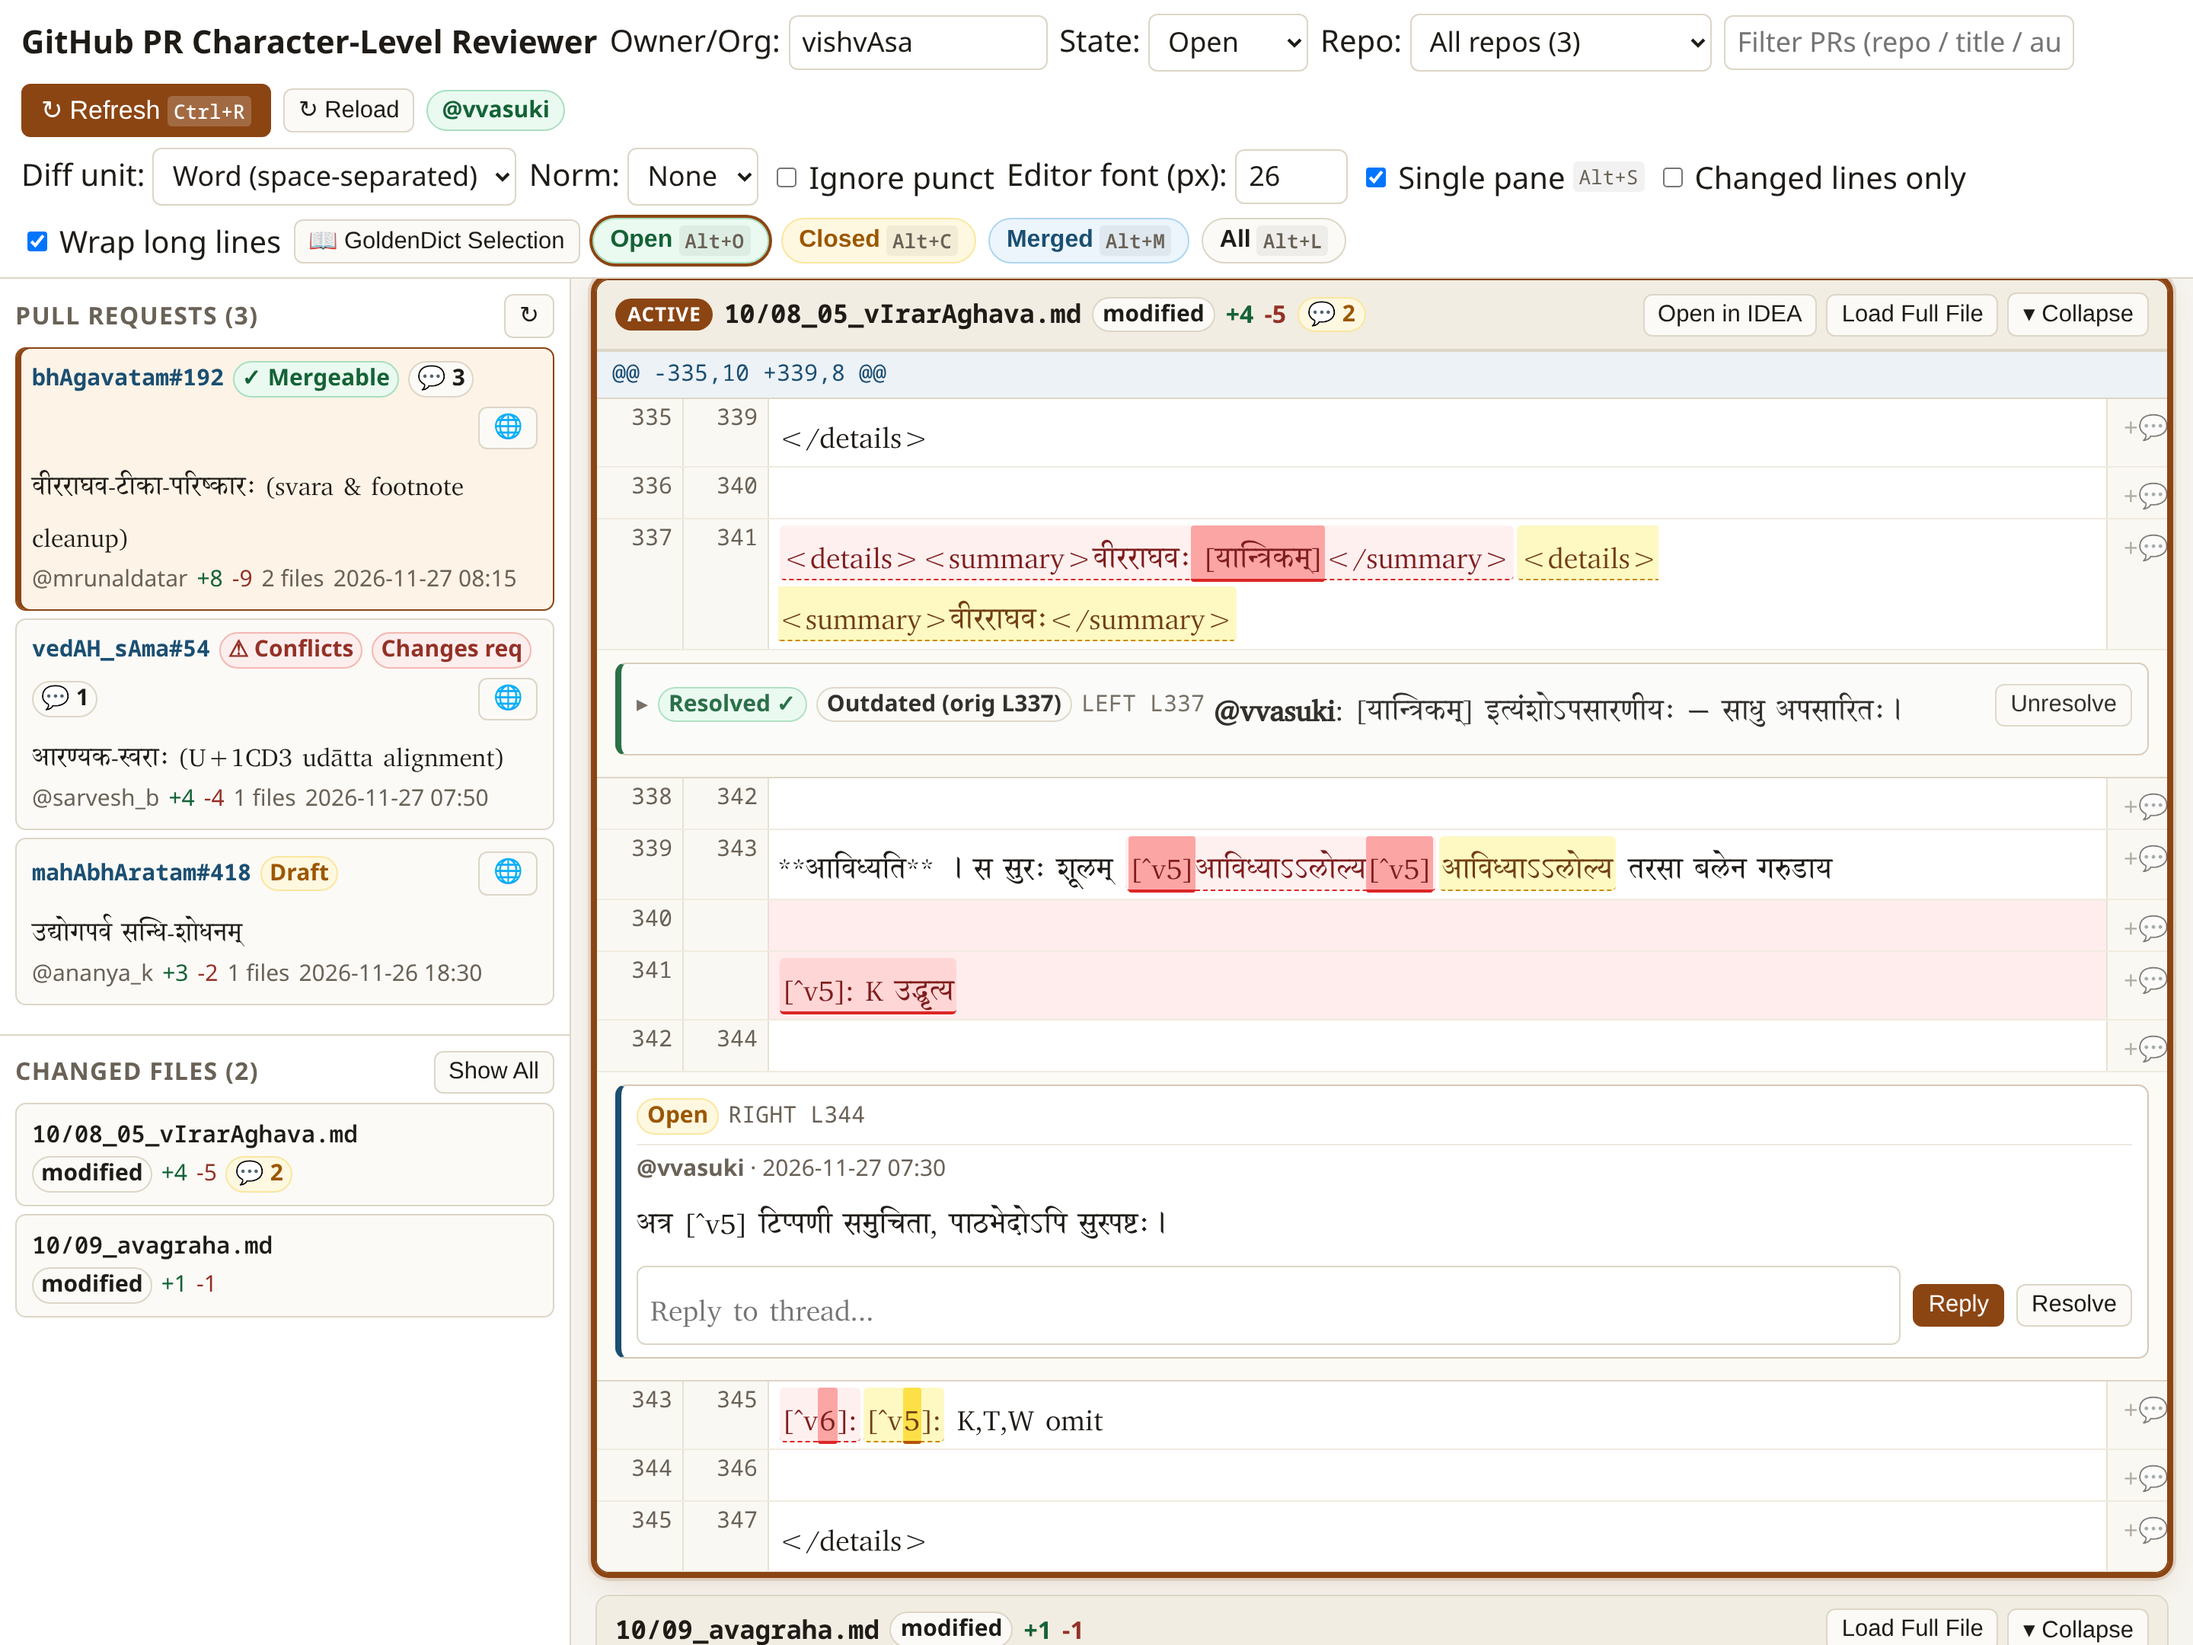
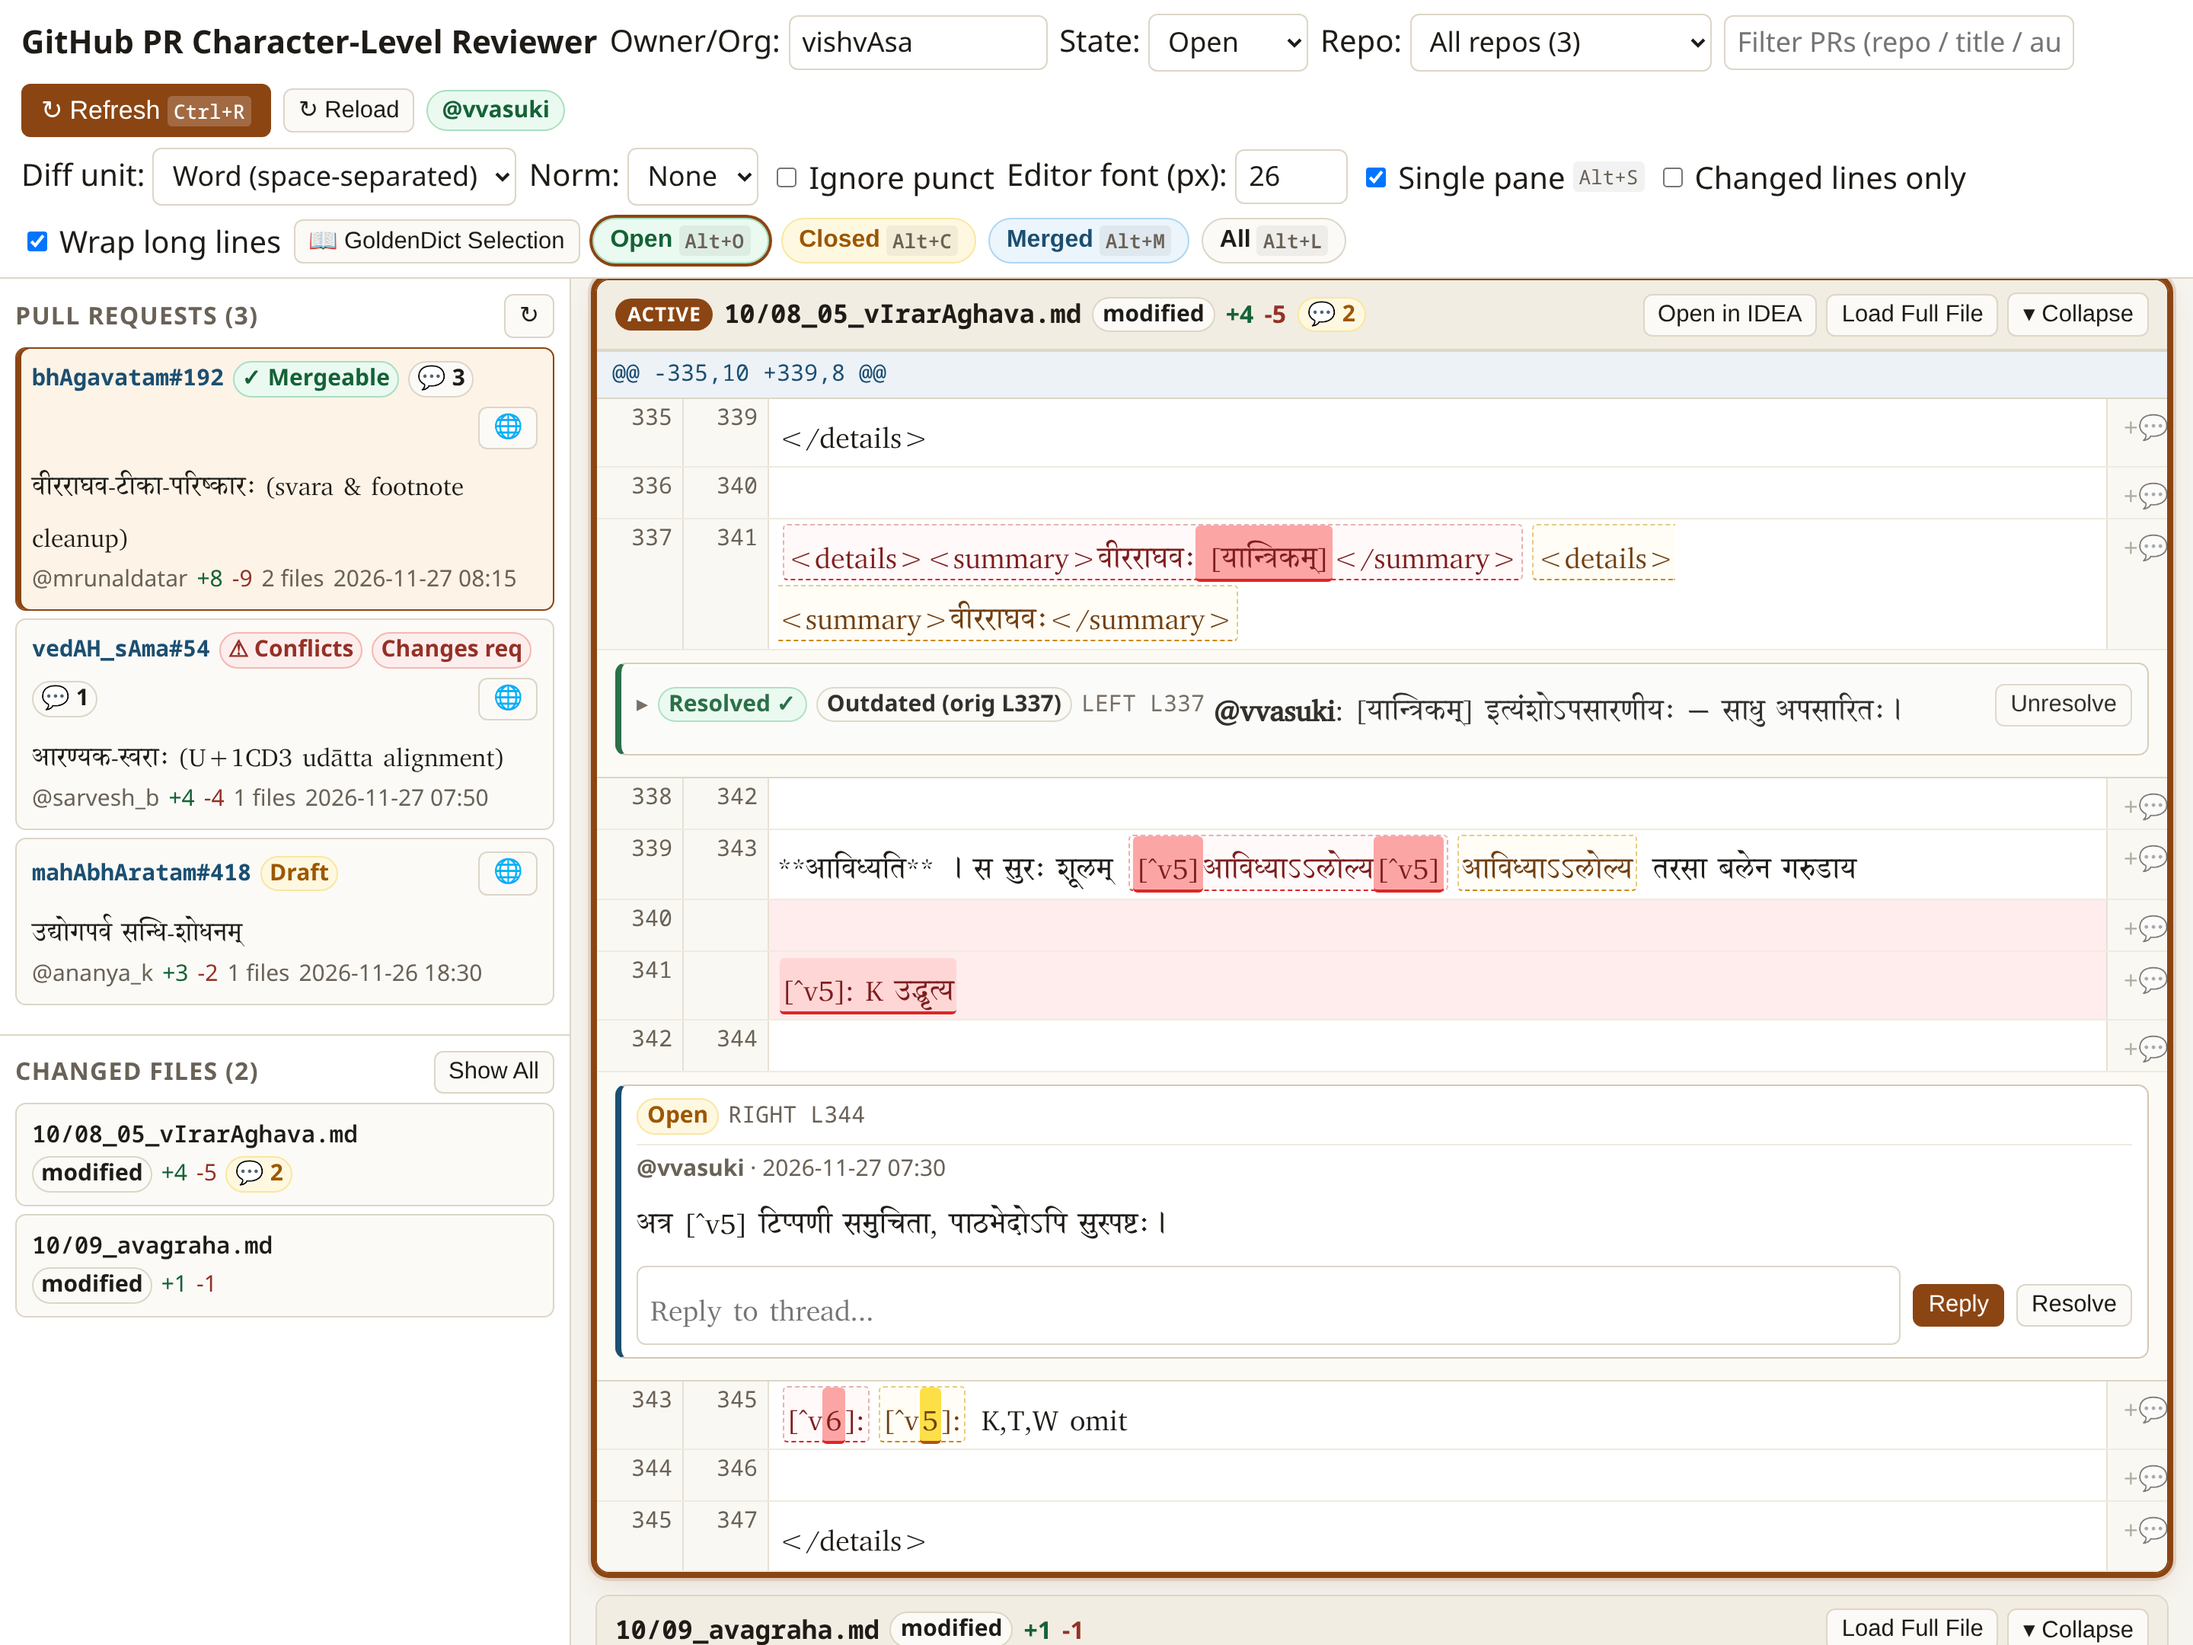
Improve intra-word char highlight contrast, cross-row pairing, and JS fallback

diff --git a/pull_requests/pull_requests_san/templates/pr_review.html b/pull_requests/pull_requests_san/templates/pr_review.html
@@ -18,7 +18,7 @@
     --green-soft: #eafaf1;
     --ins-row: #fefce8;
     --ins-char: #fef3c7;
-    --ins-word-base: #fef9c3;
+    --ins-word-base: #fffdf5;
     --ins-char-sub: #fde047;
     --ins-border: #ca8a04;
     --ins-text: #713f12;
@@ -26,7 +26,7 @@
     --red-soft: #fdeeee;
     --red-row: #fff5f5;
     --red-char: #ffd6d6;
-    --del-word-base: #fff0f0;
+    --del-word-base: #fff9f9;
     --del-char-sub: #fca5a5;
     --amber: #9c5700;
     --amber-soft: #fff8e1;
@@ -426,25 +426,29 @@
   }
   .ch-del.ch-has-sub {
     background: var(--del-word-base);
-    border-bottom: 1px dashed #dc2626;
+    border: 1px dashed #e5b2b2;
+    border-bottom: 1.5px dashed #dc2626;
+    margin: 0 3px;
   }
   .ch-ins.ch-has-sub {
     background: var(--ins-word-base);
-    border-bottom: 1px dashed var(--ins-border);
+    border: 1px dashed #e6cc80;
+    border-bottom: 1.5px dashed var(--ins-border);
+    margin: 0 3px;
   }
   .ch-del .ch-sub {
     background: var(--del-char-sub);
     color: #7f1d1d;
-    border-bottom: 2px solid #dc2626;
-    border-radius: 2px;
-    padding: 0 1px;
+    border-bottom: 2.5px solid #dc2626;
+    border-radius: 3px;
+    padding: 0 2px;
   }
   .ch-ins .ch-sub {
     background: var(--ins-char-sub);
     color: #713f12;
-    border-bottom: 2px solid #b45309;
-    border-radius: 2px;
-    padding: 0 1px;
+    border-bottom: 2.5px solid #b45309;
+    border-radius: 3px;
+    padding: 0 2px;
   }
   .nl-badge {
     display: inline-block;
@@ -897,10 +901,79 @@ function renderChangedText(txt, op, subSegments = null) {
   return `${fmtWs(lead)}<span class="${cls}" title="${tip}">${inner}</span>${fmtWs(trail)}`;
 }
 
+function graphemeUnitsClient(str) {
+  if (typeof Intl !== "undefined" && Intl.Segmenter) {
+    const seg = new Intl.Segmenter(undefined, { granularity: "grapheme" });
+    return Array.from(seg.segment(str), s => s.segment);
+  }
+  return Array.from(str);
+}
+
+function computeClientWordSubPair(delText, insText) {
+  const mL = String(delText || "").match(/^([ \t]*)([\s\S]*?)([ \t]*)$/);
+  const mR = String(insText || "").match(/^([ \t]*)([\s\S]*?)([ \t]*)$/);
+  const lLead = mL ? mL[1] : "", lCore = mL ? mL[2] : "", lTrail = mL ? mL[3] : "";
+  const rLead = mR ? mR[1] : "", rCore = mR ? mR[2] : "", rTrail = mR ? mR[3] : "";
+  if (!lCore || !rCore) return null;
+  const a = graphemeUnitsClient(lCore), b = graphemeUnitsClient(rCore);
+  if (a.length * b.length > 40000) return null;
+  const m = a.length, n = b.length;
+  const dp = Array.from({ length: m + 1 }, () => new Int32Array(n + 1));
+  for (let i = m - 1; i >= 0; i--) {
+    for (let j = n - 1; j >= 0; j--) {
+      dp[i][j] = a[i] === b[j] ? 1 + dp[i + 1][j + 1] : Math.max(dp[i + 1][j], dp[i][j + 1]);
+    }
+  }
+  const lSub = [], rSub = [];
+  let i = 0, j = 0, hasNonWsEq = false;
+  const pushOp = (arr, op, t) => {
+    if (!t) return;
+    if (arr.length && arr[arr.length - 1].op === op) arr[arr.length - 1].text += t;
+    else arr.push({ op, text: t });
+  };
+  while (i < m && j < n) {
+    if (a[i] === b[j]) {
+      if (a[i].trim()) hasNonWsEq = true;
+      pushOp(lSub, "eq", a[i]);
+      pushOp(rSub, "eq", b[j]);
+      i++; j++;
+    } else if (dp[i + 1][j] >= dp[i][j + 1]) {
+      pushOp(lSub, "del", a[i++]);
+    } else {
+      pushOp(rSub, "ins", b[j++]);
+    }
+  }
+  while (i < m) pushOp(lSub, "del", a[i++]);
+  while (j < n) pushOp(rSub, "ins", b[j++]);
+  if (!hasNonWsEq) return null;
+  return {
+    l: [...(lLead ? [{ op: "eq", text: lLead }] : []), ...lSub, ...(lTrail ? [{ op: "eq", text: lTrail }] : [])],
+    r: [...(rLead ? [{ op: "eq", text: rLead }] : []), ...rSub, ...(rTrail ? [{ op: "eq", text: rTrail }] : [])],
+  };
+}
+
 function renderDiffSegments(segments) {
   if (!segments || !segments.length) return "";
+  const fallbackSubs = {};
+  if (getDiffMode() === "word") {
+    for (let i = 0; i < segments.length; i++) {
+      const s = segments[i];
+      if (s.op === "del" && !s.sub_segments) {
+        let j = i + 1;
+        while (j < segments.length && (segments[j].op === "del_nl" || segments[j].op === "ins_nl")) j++;
+        if (j < segments.length && segments[j].op === "ins" && !segments[j].sub_segments) {
+          const pair = computeClientWordSubPair(s.text, segments[j].text);
+          if (pair) {
+            fallbackSubs[i] = pair.l;
+            fallbackSubs[j] = pair.r;
+          }
+        }
+      }
+    }
+  }
   let out = "";
-  for (const seg of segments) {
+  for (let i = 0; i < segments.length; i++) {
+    const seg = segments[i];
     if (seg.op === "eq") {
       out += esc(seg.text);
     } else if (seg.op === "del_nl") {
@@ -908,7 +981,7 @@ function renderDiffSegments(segments) {
     } else if (seg.op === "ins_nl") {
       out += `<span class="nl-badge nl-ins" title="Inserted line break">↵</span>`;
     } else {
-      out += renderChangedText(seg.text, seg.op, seg.sub_segments);
+      out += renderChangedText(seg.text, seg.op, seg.sub_segments || fallbackSubs[i]);
     }
   }
   return out;

diff --git a/pull_requests/pull_requests_san/diff.py b/pull_requests/pull_requests_san/diff.py
@@ -555,6 +555,41 @@ def _split_outer_ws(text: str) -> tuple[str, str, str]:
   return m.group(1), m.group(2), m.group(3)
 
 
+def _annotate_pair_sub_segments(
+  del_seg: dict[str, Any],
+  ins_seg: dict[str, Any],
+  *,
+  normalize: str,
+  ignore_punct: bool,
+) -> bool:
+  l_lead, l_core, l_trail = _split_outer_ws(del_seg.get("text") or "")
+  r_lead, r_core, r_trail = _split_outer_ws(ins_seg.get("text") or "")
+  if not l_core or not r_core:
+    return False
+  l_sub, r_sub = compute_char_diff(
+    l_core,
+    r_core,
+    mode="grapheme",
+    normalize=normalize,
+    ignore_punct=ignore_punct,
+  )
+  if not any(s.get("op") == "eq" and (s.get("text") or "").strip() for s in l_sub):
+    return False
+  full_l = (
+    ([{"op": "eq", "text": l_lead}] if l_lead else [])
+    + l_sub
+    + ([{"op": "eq", "text": l_trail}] if l_trail else [])
+  )
+  full_r = (
+    ([{"op": "eq", "text": r_lead}] if r_lead else [])
+    + r_sub
+    + ([{"op": "eq", "text": r_trail}] if r_trail else [])
+  )
+  del_seg["sub_segments"] = _merge_segments(full_l)
+  ins_seg["sub_segments"] = _merge_segments(full_r)
+  return True
+
+
 def _annotate_word_sub_segments(
   flow_rows: list[dict[str, Any]],
   *,
@@ -562,43 +597,51 @@ def _annotate_word_sub_segments(
   ignore_punct: bool = False,
 ) -> None:
   """Attach intra-word grapheme ``sub_segments`` to paired del/ins spans in word diff mode."""
+  flat: list[dict[str, Any] | None] = []
   for fr in flow_rows:
-    segs = fr.get("segments") or []
-    i = 0
-    while i < len(segs):
-      if segs[i].get("op") != "del":
-        i += 1
+    if fr.get("kind") == "context":
+      flat.append(None)
+      continue
+    for seg in fr.get("segments") or []:
+      if seg.get("op") in ("del_nl", "ins_nl"):
         continue
-      j = i + 1
-      while j < len(segs) and segs[j].get("op") in ("del_nl", "ins_nl"):
-        j += 1
-      if j >= len(segs) or segs[j].get("op") != "ins":
-        i += 1
-        continue
-      l_lead, l_core, l_trail = _split_outer_ws(segs[i].get("text") or "")
-      r_lead, r_core, r_trail = _split_outer_ws(segs[j].get("text") or "")
-      if l_core and r_core:
-        l_sub, r_sub = compute_char_diff(
-          l_core,
-          r_core,
-          mode="grapheme",
-          normalize=normalize,
-          ignore_punct=ignore_punct,
-        )
-        if any(s.get("op") == "eq" and (s.get("text") or "").strip() for s in l_sub):
-          full_l = (
-            ([{"op": "eq", "text": l_lead}] if l_lead else [])
-            + l_sub
-            + ([{"op": "eq", "text": l_trail}] if l_trail else [])
-          )
-          full_r = (
-            ([{"op": "eq", "text": r_lead}] if r_lead else [])
-            + r_sub
-            + ([{"op": "eq", "text": r_trail}] if r_trail else [])
-          )
-          segs[i]["sub_segments"] = _merge_segments(full_l)
-          segs[j]["sub_segments"] = _merge_segments(full_r)
-      i = j + 1
+      flat.append(seg)
+
+  i = 0
+  n = len(flat)
+  while i < n:
+    s = flat[i]
+    if s is None or s.get("op") != "del":
+      i += 1
+      continue
+    d_start = i
+    while i < n and flat[i] is not None and flat[i].get("op") == "del":
+      i += 1
+    d_run = [flat[k] for k in range(d_start, i) if flat[k] is not None]
+    a_start = i
+    while i < n and flat[i] is not None and flat[i].get("op") == "ins":
+      i += 1
+    a_run = [flat[k] for k in range(a_start, i) if flat[k] is not None]
+    if not d_run or not a_run:
+      continue
+    if len(d_run) == len(a_run):
+      for ds, iseg in zip(d_run, a_run):
+        _annotate_pair_sub_segments(ds, iseg, normalize=normalize, ignore_punct=ignore_punct)
+    else:
+      used_ins: set[int] = set()
+      for ds in d_run:
+        best_idx = -1
+        best_sim = 0.25
+        for idx, iseg in enumerate(a_run):
+          if idx in used_ins:
+            continue
+          sim = _line_similarity(ds.get("text") or "", iseg.get("text") or "")
+          if sim >= best_sim:
+            best_sim = sim
+            best_idx = idx
+        if best_idx >= 0:
+          used_ins.add(best_idx)
+          _annotate_pair_sub_segments(ds, a_run[best_idx], normalize=normalize, ignore_punct=ignore_punct)
 
 
 def build_inline_flow_rows(

diff --git a/pull_requests/tests/pull_requests_san_test.py b/pull_requests/tests/pull_requests_san_test.py
@@ -615,6 +615,14 @@ def test_parse_patch_hunks_aligns_multiedits_and_edge_cases():
   )
   reflow_h = parse_patch_hunks(reflow_patch, char_diff_mode="word")[0]
   assert any(any(s["op"] == "del" and "delta" in s["text"] for s in r["segments"]) for r in reflow_h.inline_rows)
+
+  # Cross-row newline boundary still pairs del/ins words (e.g. पा० -> पा॰) for sub_segments
+  cross_patch = "@@ -1,2 +1,1 @@\n-पा०\n-ख\n+पा॰ ख\n"
+  cross_h = parse_patch_hunks(cross_patch, char_diff_mode="word")[0]
+  del_pa = next(s for r in cross_h.inline_rows for s in r["segments"] if s["op"] == "del")
+  ins_pa = next(s for r in cross_h.inline_rows for s in r["segments"] if s["op"] == "ins")
+  assert {"op": "del", "text": "०"} in del_pa["sub_segments"]
+  assert {"op": "ins", "text": "॰"} in ins_pa["sub_segments"]
   assert any(any(s["op"] == "ins" and "newword" in s["text"] for s in r["segments"]) for r in reflow_h.inline_rows)
   assert any(r["segments"] and any(s["op"] == "eq" and "zeta" in s["text"] for s in r["segments"]) for r in reflow_h.inline_rows)
 
@@ -1305,6 +1313,11 @@ def test_frontend_js_renders_char_diffs_and_comments(tmp_path: Path):
     "  }\n"
     "  if (!thHtml.includes('Threads Outside Diff Hunks')) {\n"
     "    throw new Error('Genuinely distant thread should stay in Threads Outside Diff Hunks: ' + thHtml);\n"
+    "  }\n"
+    "  // Even without server sub_segments, word diff JS renders intra-word char highlights (पा० -> पा॰ highlights ० and ॰)\n"
+    "  const paHtml = renderDiffSegments([{ op: 'del', text: 'पा०' }, { op: 'ins', text: 'पा॰' }]);\n"
+    "  if (!paHtml.includes('<span class=\"ch-sub\">०</span>') || !paHtml.includes('<span class=\"ch-sub\">॰</span>')) {\n"
+    "    throw new Error('Missing intra-word ० / ॰ sub-highlights: ' + paHtml);\n"
     "  }\n"
     "  // Changelist dropdown renders default 'All changelists' + commits with date/time, and switches files cleanly\n"
     "  samplePr.commits = [\n"

diff --git a/pull_requests/scripts/capture_screenshots.py b/pull_requests/scripts/capture_screenshots.py
@@ -165,8 +165,8 @@ class ShowcaseClient:
       patch2 = (
         "@@ -12,3 +12,3 @@\n"
         " ## मूलम्\n"
-        "-प्रणयो ऽस्येति धा० भ्वादिः ।\n"
-        "+प्रणयोऽस्येति धा॰ भ्वादिः ।\n"
+        "-प्रणयो ऽस्येति पा० भ्वादिः ।\n"
+        "+प्रणयोऽस्येति पा॰ भ्वादिः ।\n"
         " समाप्तम् ॥"
       )
       return PullRequestDetail(
